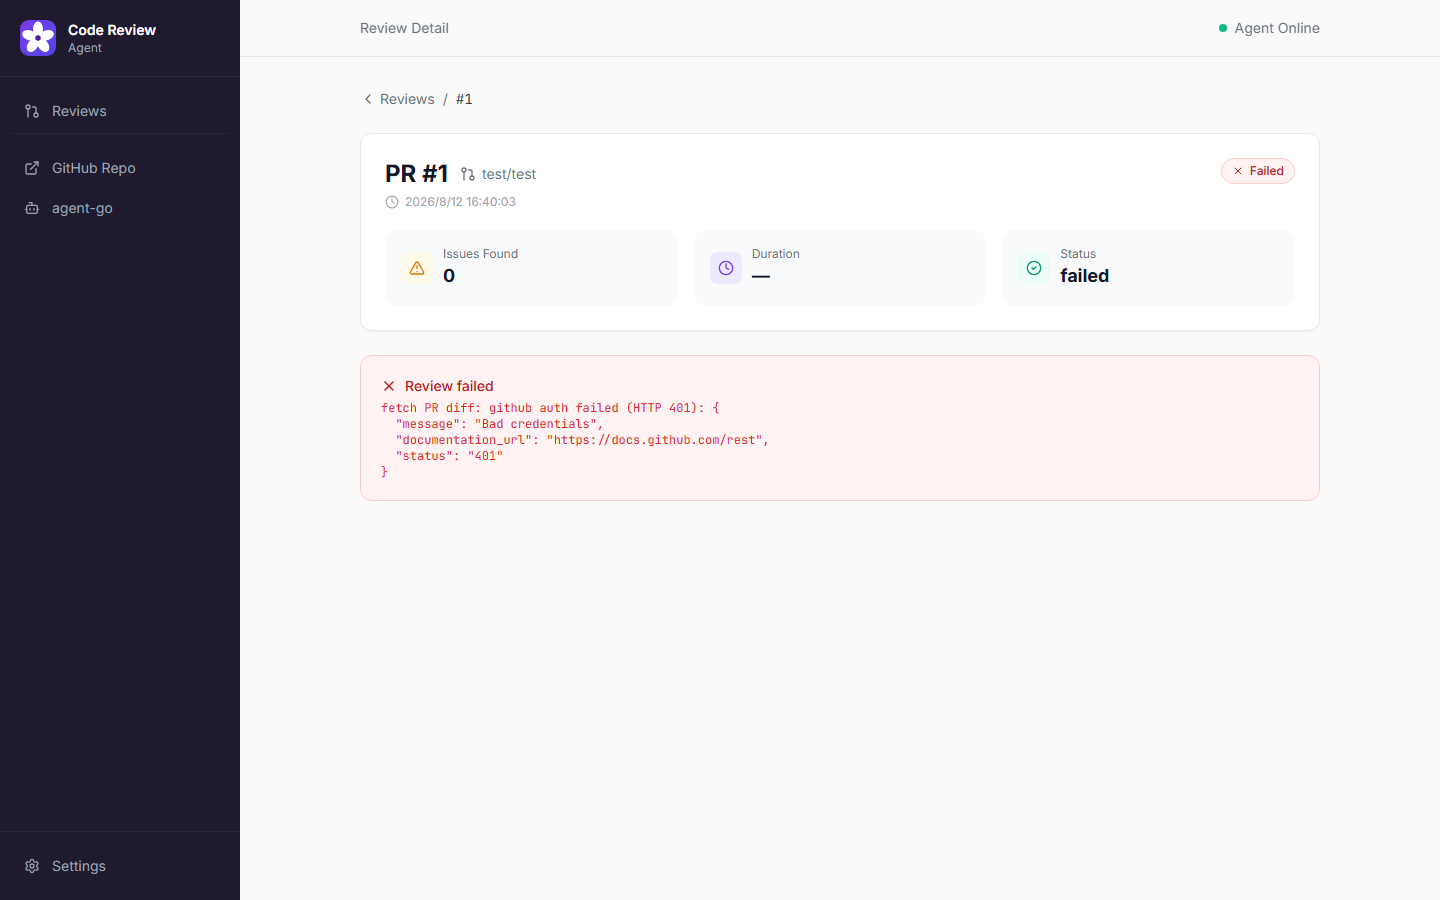
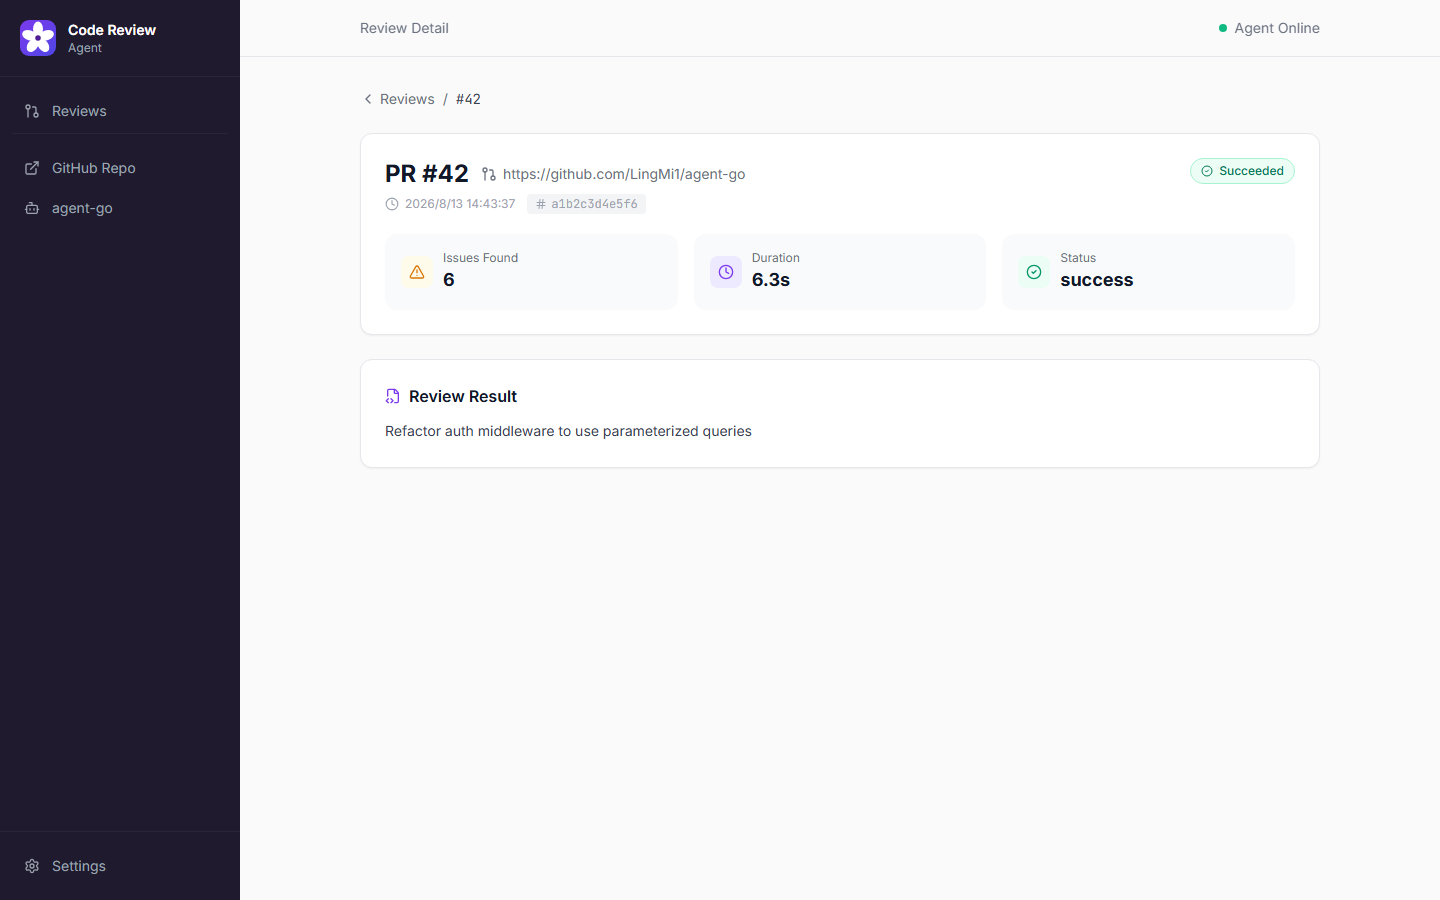
docs: rewrite Chinese README in natural style and refresh success screenshots

diff --git a/README.zh-CN.md b/README.zh-CN.md
@@ -1,6 +1,6 @@
 # Code Review Agent
 
-AI 驱动的代码审查，自动发现 PR 中的 bug、安全漏洞和性能问题 —— **由 [agent-go](https://github.com/LingMi1/agent-go) 提供认知能力**，一个生产级的多 Agent 平台。
+AI 代码审查工具，自动找出 PR 里的 bug、安全漏洞和性能问题。认知能力**完全由生产级多 Agent 平台 [agent-go](https://github.com/LingMi1/agent-go) 提供**，本仓库不内置任何 LLM SDK。
 
 > [English](README.md)
 
@@ -43,22 +43,22 @@ GitHub PR webhook / 手动触发
 
 ## 功能特性
 
-### 核心链路
+### 核心流程
 
 - **真实 PR 处理**：处理 `opened`、`synchronize`、`reopened` 三类 PR 事件
 - **HMAC-SHA256 Webhook 验签**：防止伪造请求
 - **增量 Diff 分块**：大 PR 按文件拆分，控制 Token 预算
-- **结构化 JSON 输出**：LLM 返回可机读的审查结果（文件/行号/严重级/类别/建议）
+- **结构化 JSON 输出**：LLM 返回可被程序解析的审查结果（文件/行号/严重级/类别/建议）
 - **优雅降级**：JSON 解析失败时回退为纯文本评论
-- **GitHub API 限流处理**：尊重 `Retry-After` 响应头并自动重试
+- **GitHub API 限流处理**：遵循 `Retry-After` 响应头自动重试
 - **去重**：基于 webhook delivery-id 去重，防止重复审查
 - **生成文件过滤**：跳过 lockfile、protobuf stub、vendor 目录、二进制文件
 - **审计日志**：每次审查操作带时间戳记录
-- **由 agent-go 驱动**：本仓库零 LLM SDK —— 所有认知能力通过 gRPC 委托给 agent-go
+- **由 agent-go 驱动**：本仓库不含任何 LLM SDK —— 认知能力全部通过 gRPC 交给 agent-go 完成
 
 ### 成本控制
 
-- **Token 预算强制**：按文件和按 PR 的 Token 上限，防止成本失控
+- **Token 预算上限**：按文件和按 PR 设 Token 上限，防止成本失控
 - **智能模型路由**：小 PR 用便宜模型，大/复杂 PR 升级到更强模型
 - **Diff 截断**：超长 hunk 在构造 prompt 前裁剪
 
@@ -69,10 +69,10 @@ GitHub PR webhook / 手动触发
 ### 可观测性
 
 - **OpenTelemetry**：跨 Go → gRPC → agent-go 认知面的分布式追踪
-- **Prometheus**：`/metrics` 端点暴露审查数量、延迟、错误率
+- **Prometheus**：`/metrics` 端点对外提供审查数量、延迟、错误率
 - **结构化日志**：`log/slog` 带请求级字段
 
-### 前端面板
+### 前端界面
 
 - **React + TypeScript + Vite**：审查列表页和详情页
 - **SSE 实时流**：通过 `/api/reviews/stream` 实时展示 Agent 思考过程
@@ -186,7 +186,7 @@ code-review-agent/
 
 ## gRPC 集成
 
-本项目通过 agent-go 认知面的公开 RPC `CognitionService.Run`（server-streaming）消费认知能力：
+本项目通过 agent-go 认知面的公开 RPC `CognitionService.Run`（server-streaming）获取认知能力：
 
 ```go
 // 来自 internal/cognition/client.go
